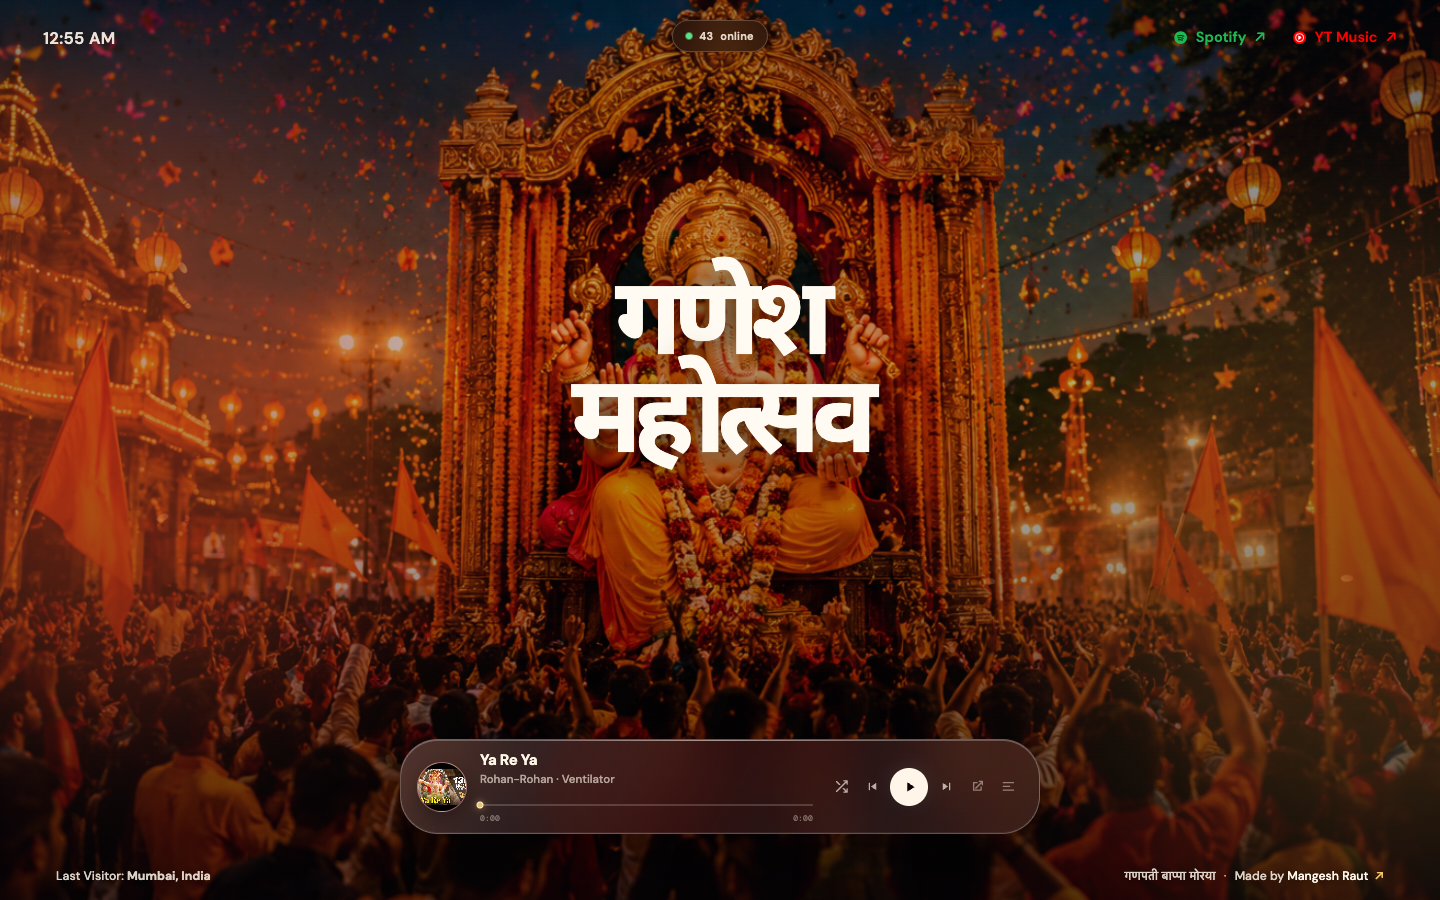
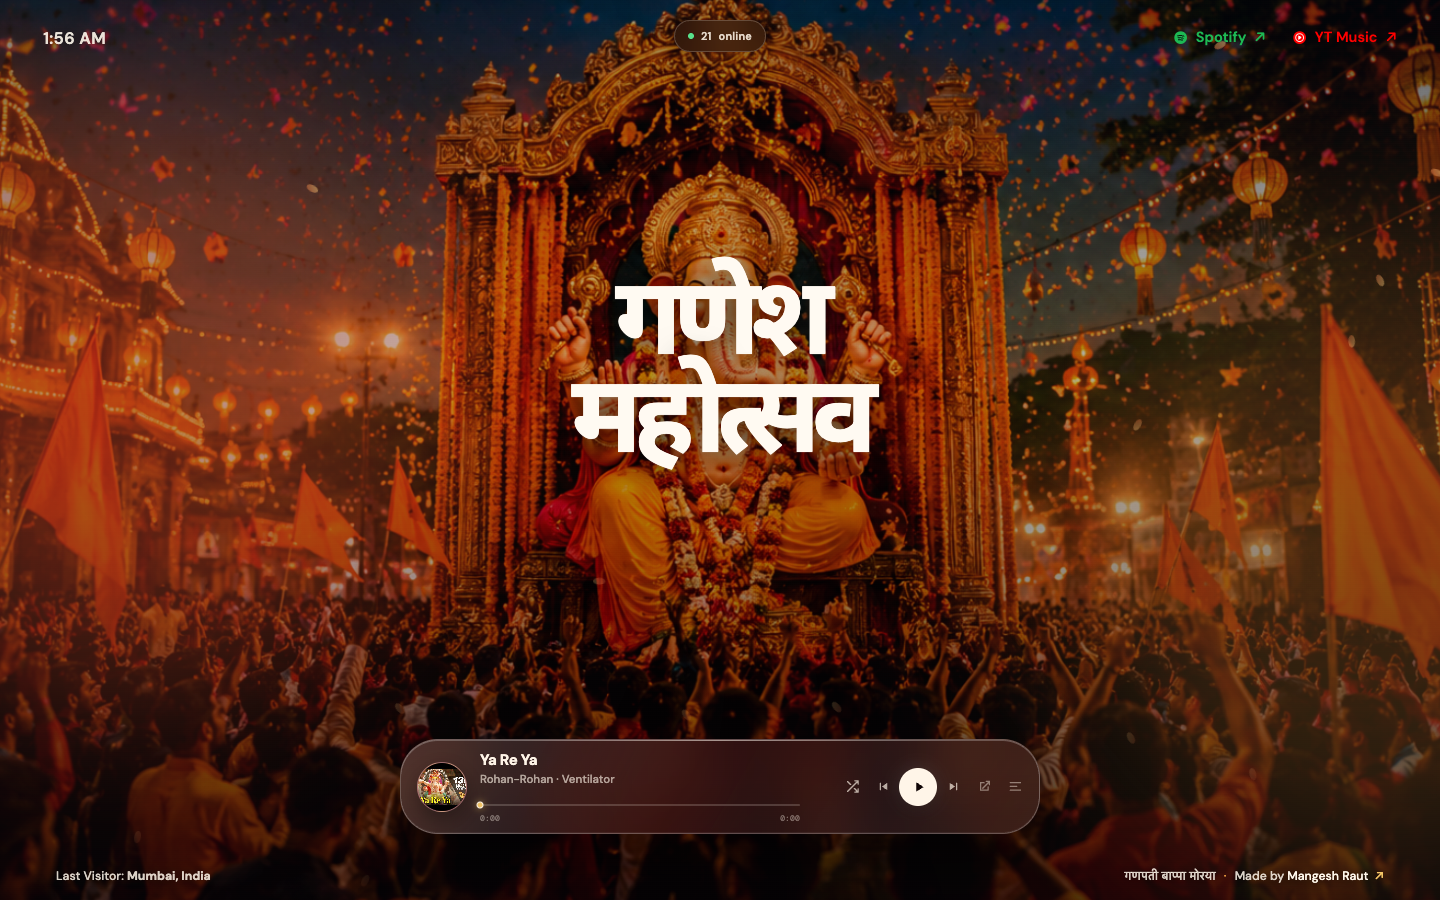
Polish player alignment and expand queue

diff --git a/index.html b/index.html
@@ -101,25 +101,29 @@
           </div>
 
           <div class="controls" aria-label="Playback controls">
-            <button type="button" class="ctrl ctrl-quiet" id="shuffle" aria-pressed="false" aria-label="Turn shuffle on" title="Shuffle">
-              <svg viewBox="0 0 24 24" aria-hidden="true"><path d="M16 3h5v5M4 20 21 3M15 15l6 6m0-5v5h-5M4 4l5 5" /></svg>
-            </button>
-            <button type="button" class="ctrl" id="prev" aria-label="Previous track" title="Previous track">
-              <svg viewBox="0 0 24 24" aria-hidden="true"><path d="M6 6h2v12H6V6zm3.5 6 8.5 6V6l-8.5 6z" /></svg>
-            </button>
-            <button type="button" class="ctrl ctrl-play" id="play" aria-label="Play" title="Play">
+            <div class="control-cluster control-cluster-start">
+              <button type="button" class="ctrl ctrl-quiet" id="shuffle" aria-pressed="false" aria-label="Turn shuffle on" title="Shuffle">
+                <svg viewBox="0 0 24 24" aria-hidden="true"><path d="M16 3h5v5M4 20 21 3M15 15l6 6m0-5v5h-5M4 4l5 5" /></svg>
+              </button>
+              <button type="button" class="ctrl" id="prev" aria-label="Previous track" title="Previous track">
+                <svg viewBox="0 0 24 24" aria-hidden="true"><path d="M6 6h2v12H6V6zm3.5 6 8.5 6V6l-8.5 6z" /></svg>
+              </button>
+            </div>
+            <button type="button" class="ctrl ctrl-play" id="play" aria-busy="false" aria-label="Play" title="Play">
               <svg class="icon-play" viewBox="0 0 24 24" aria-hidden="true"><path d="M8 5v14l11-7L8 5z" /></svg>
               <svg class="icon-pause" viewBox="0 0 24 24" aria-hidden="true"><path d="M6 5h4v14H6V5zm8 0h4v14h-4V5z" /></svg>
             </button>
-            <button type="button" class="ctrl" id="next" aria-label="Next track" title="Next track">
-              <svg viewBox="0 0 24 24" aria-hidden="true"><path d="M16 6h2v12h-2V6zM6 18l8.5-6L6 6v12z" /></svg>
-            </button>
-            <a class="ctrl ctrl-link" id="openYt" href="https://www.youtube.com/" target="_blank" rel="noopener noreferrer" aria-label="Open current song on YouTube" title="Open current song on YouTube">
-              <svg viewBox="0 0 24 24" aria-hidden="true"><path d="M14 3v2h3.59l-9.83 9.83 1.41 1.41L19 6.41V10h2V3h-7zM5 5v14h14v-7h-2v5H7V7h5V5H5z" /></svg>
-            </a>
-            <button type="button" class="ctrl ctrl-link" id="queueBtn" aria-expanded="false" aria-controls="queue" aria-label="Show playlist" title="Show playlist">
-              <svg viewBox="0 0 24 24" aria-hidden="true"><path d="M3 5h18v2H3V5zm0 6h12v2H3v-2zm0 6h18v2H3v-2z" /></svg>
-            </button>
+            <div class="control-cluster control-cluster-end">
+              <button type="button" class="ctrl" id="next" aria-label="Next track" title="Next track">
+                <svg viewBox="0 0 24 24" aria-hidden="true"><path d="M16 6h2v12h-2V6zM6 18l8.5-6L6 6v12z" /></svg>
+              </button>
+              <a class="ctrl ctrl-link" id="openYt" href="https://www.youtube.com/" target="_blank" rel="noopener noreferrer" aria-label="Open current song on YouTube" title="Open current song on YouTube">
+                <svg viewBox="0 0 24 24" aria-hidden="true"><path d="M14 3v2h3.59l-9.83 9.83 1.41 1.41L19 6.41V10h2V3h-7zM5 5v14h14v-7h-2v5H7V7h5V5H5z" /></svg>
+              </a>
+              <button type="button" class="ctrl ctrl-link" id="queueBtn" aria-expanded="false" aria-controls="queue" aria-label="Show playlist" title="Show playlist">
+                <svg viewBox="0 0 24 24" aria-hidden="true"><path d="M3 5h18v2H3V5zm0 6h12v2H3v-2zm0 6h18v2H3v-2z" /></svg>
+              </button>
+            </div>
           </div>
         </div>
       </div>

diff --git a/styles.css b/styles.css
@@ -671,10 +671,26 @@ body.is-playing .equalizer i:nth-child(3) { animation-delay: -560ms; }
 }
 
 .controls {
+  display: grid;
+  align-items: center;
+  grid-template-columns: minmax(0, 1fr) auto minmax(0, 1fr);
+  justify-content: normal;
+  gap: 0;
+  width: 210px;
+}
+
+.control-cluster {
   display: flex;
   align-items: center;
-  justify-content: end;
-  gap: 3px;
+  gap: 1px;
+}
+
+.control-cluster-start {
+  justify-content: flex-end;
+}
+
+.control-cluster-end {
+  justify-content: flex-start;
 }
 
 .ctrl {
@@ -682,6 +698,8 @@ body.is-playing .equalizer i:nth-child(3) { animation-delay: -560ms; }
   width: 32px;
   height: 32px;
   place-items: center;
+  flex: 0 0 auto;
+  line-height: 0;
   border-radius: 50%;
   background: transparent;
   color: rgba(255, 245, 232, 0.68);
@@ -690,6 +708,7 @@ body.is-playing .equalizer i:nth-child(3) { animation-delay: -560ms; }
 }
 
 .ctrl svg {
+  display: block;
   width: 15px;
   height: 15px;
   fill: currentColor;
@@ -717,7 +736,8 @@ body.is-playing .equalizer i:nth-child(3) { animation-delay: -560ms; }
 .ctrl-play {
   width: 40px;
   height: 40px;
-  margin: 0 2px;
+  position: relative;
+  margin: 0;
   color: var(--ink);
   background: var(--cream);
   box-shadow: 0 5px 16px rgba(0, 0, 0, 0.28), 0 0 16px rgba(255, 245, 232, 0.13);
@@ -749,6 +769,29 @@ body.is-playing .equalizer i:nth-child(3) { animation-delay: -560ms; }
   color: var(--ink);
   background: #fff;
   transform: scale(1.06);
+}
+
+.ctrl-play[data-buffering="true"] {
+  cursor: progress;
+}
+
+.ctrl-play[data-buffering="true"] svg {
+  opacity: 0;
+}
+
+.ctrl-play[data-buffering="true"]::before {
+  position: absolute;
+  width: 15px;
+  height: 15px;
+  border: 2px solid rgba(16, 6, 7, 0.2);
+  border-top-color: var(--saffron);
+  border-radius: 50%;
+  animation: player-spin 800ms linear infinite;
+  content: "";
+}
+
+@keyframes player-spin {
+  to { transform: rotate(360deg); }
 }
 
 .player-footer {
@@ -1099,10 +1142,27 @@ body.is-playing .equalizer i:nth-child(3) { animation-delay: -560ms; }
   }
 
   .controls {
+    display: grid;
     grid-column: 1 / -1;
-    justify-content: center;
-    gap: 6px;
+    grid-template-columns: minmax(0, 1fr) auto minmax(0, 1fr);
+    justify-content: normal;
+    width: 100%;
+    gap: 10px;
     padding-top: 1px;
+  }
+
+  .control-cluster {
+    display: flex;
+    align-items: center;
+    gap: 4px;
+  }
+
+  .control-cluster-start {
+    justify-content: flex-end;
+  }
+
+  .control-cluster-end {
+    justify-content: flex-start;
   }
 
   .ctrl {

diff --git a/app.js b/app.js
@@ -49,6 +49,7 @@
   let progressTimer = null;
   let dragging = false;
   let toastTimer = null;
+  let skipTimer = null;
   let userStarted = false;
 
   // Skip quiet intros on some aartis a bit — still starts near beginning
@@ -127,10 +128,21 @@
 
   function setPlayingUI(isPlaying) {
     playing = isPlaying;
+    setBufferingUI(false);
     el.play.classList.toggle("is-playing", isPlaying);
     el.play.setAttribute("aria-label", isPlaying ? "Pause" : "Play");
     el.play.title = isPlaying ? "Pause" : "Play";
     document.body.classList.toggle("is-playing", isPlaying);
+  }
+
+  function setBufferingUI(isBuffering) {
+    document.body.classList.toggle("is-buffering", isBuffering);
+    el.play.setAttribute("aria-busy", String(isBuffering));
+    if (isBuffering) {
+      el.play.dataset.buffering = "true";
+    } else {
+      delete el.play.dataset.buffering;
+    }
   }
 
   function setProgress(current, duration) {
@@ -285,6 +297,7 @@
         playNext(true);
         break;
       case S.BUFFERING:
+        setBufferingUI(true);
         break;
       case S.CUED:
         setPlayingUI(false);
@@ -297,13 +310,23 @@
   function onPlayerError(event) {
     // 2=invalid id, 5=html5, 100=not found, 101/150=embed not allowed
     console.warn("YouTube error", event.data);
+    setPlayingUI(false);
+    if (skipTimer) return;
     showToast("This track can’t play here — skipping…");
-    setTimeout(() => playNext(true), 700);
+    skipTimer = setTimeout(() => {
+      skipTimer = null;
+      playNext(true);
+    }, 700);
   }
 
   function loadAndPlay(autoplay) {
     const song = currentSong();
     if (!song || !player) return;
+    if (skipTimer) {
+      clearTimeout(skipTimer);
+      skipTimer = null;
+    }
+    setBufferingUI(false);
     updateMeta(song);
     setProgress(0, 0);
 

diff --git a/songs.js b/songs.js
@@ -1,5 +1,5 @@
 /**
- * 25 Ganesh Chaturthi bangers, dhol-tasha cuts, and aarti staples.
+ * 30 Ganesh Chaturthi bangers, dhol-tasha cuts, and aarti staples.
  * Playback is always via YouTube (video IDs only — no audio files hosted here).
  * The order is intentional: Ya Re Ya opens the mandap, then the queue moves
  * through procession energy, Marathi classics, aartis, and mantras.
@@ -179,5 +179,40 @@ window.GANESH_SONGS = [
     title: "Shree Ganeshay Dheemahi",
     artist: "Ajay-Atul · Shankar Mahadevan",
     album: "Vishwa Vinayak",
+  },
+  {
+    id: "HE5SE4farrQ",
+    youtubeId: "HE5SE4farrQ",
+    title: "Maza Bappa Aala",
+    artist: "Zee Music Marathi",
+    album: "Ganpati Aagman",
+  },
+  {
+    id: "cGcw33hVrS4",
+    youtubeId: "cGcw33hVrS4",
+    title: "Bappa",
+    artist: "Vishal & Shekhar · Vishal Dadlani",
+    album: "Banjo",
+  },
+  {
+    id: "KJF8t-BWVRM",
+    youtubeId: "KJF8t-BWVRM",
+    title: "Gajanana",
+    artist: "Sukhwinder Singh",
+    album: "Bajirao Mastani",
+  },
+  {
+    id: "VJPLXBvV4qQ",
+    youtubeId: "VJPLXBvV4qQ",
+    title: "Ganapati Tu Sarvashreshth",
+    artist: "Adesh Karwarkar",
+    album: "Marathi Ganpati Song",
+  },
+  {
+    id: "_jiTr71_X8c",
+    youtubeId: "_jiTr71_X8c",
+    title: "Ganpati Mantra",
+    artist: "Shankar Mahadevan",
+    album: "Ganesh Pancharatna Stotra",
   },
 ];

diff --git a/README.md b/README.md
@@ -47,7 +47,7 @@ The name keeps the heart of the festival in the first word and gives the project
 - Full-viewport Ganeshotsav artwork with dark readability overlays and restrained festive motion.
 - A focused Marathi hero title: `गणेश महोत्सव`.
 - A liquid-glass music card with cover art, progress scrubbing, play/pause, previous/next, shuffle, YouTube, and playlist controls.
-- A hidden-by-default “mandap queue” with 25 Ganesh festival tracks.
+- A hidden-by-default “mandap queue” with 30 Ganesh festival tracks.
 - `Ya Re Ya` as the intentional opening track; shuffle is always a user action.
 - Responsive layouts tested at desktop and narrow mobile widths, including 320 px.
 - Spotify and YouTube Music entry points for continuing the listening session on the original platforms.
@@ -76,6 +76,10 @@ The generic visual language was replaced with a Ganeshotsav palette, mandap ligh
 
 The release locked `Ya Re Ya` as the opener, expanded the queue to 25 curated festival songs, corrected the Spotify and YouTube Music brand treatments, added the Mangesh Raut GitHub credit, and published the site on Vercel. The repository was then rebranded as `ganeshai` with focused GitHub topics, a release README, and visual home previews.
 
+### 10 August 2026 — Alignment and thirty-track listening run
+
+The player control rail was rebuilt around a three-column primary-action grid so the play button shares a true centerline on desktop and mobile. The queue now continues with five additional non-duplicate singles—`Maza Bappa Aala`, `Bappa`, `Gajanana`, `Ganapati Tu Sarvashreshth`, and `Ganpati Mantra`—for a 30-track run. Buffering now has an explicit loading state, while repeated YouTube errors are guarded so a single failed embed cannot skip twice.
+
 ## How it works
 
 1. `index.html` defines the semantic page shell, player controls, source links, queue disclosure, and metadata.
@@ -103,7 +107,7 @@ Opening `index.html` directly with a `file://` URL is not recommended because br
 | `index.html` | Semantic page shell, metadata, source links, player, and queue markup |
 | `styles.css` | Festival visual system, responsive rules, glass player, and accessibility states |
 | `app.js` | YouTube API integration and player interaction logic |
-| `songs.js` | 25-track Ganeshotsav queue and YouTube metadata |
+| `songs.js` | 30-track Ganeshotsav queue and YouTube metadata |
 | `ganesh background.png` | Active full-bleed Ganesh festival background |
 | `ganesh logo.png` | Ganesh logo used for the favicon and touch icon |
 | `docs/superpowers/` | Design brief and implementation history for the 2026 build |
@@ -152,7 +156,7 @@ node --check app.js
 node --check songs.js
 ```
 
-The page was also opened through a local HTTP server and checked in a real browser at 1440×900, 390×844, and 320×844. The page had no horizontal overflow, the opener was `Ya Re Ya`, and the 25-song queue opened without breaking the layout.
+The page was also opened through a local HTTP server and checked in a real browser at 1440×900, 390×844, and 320×844. The page had no horizontal overflow, the play button shared the control rail centerline, the opener was `Ya Re Ya`, and all 30 queue transitions matched their expected YouTube IDs before wrapping back to the opener.
 
 ## Design notes and credits
 

diff --git a/CHANGELOG.md b/CHANGELOG.md
@@ -2,6 +2,25 @@
 
 All notable project milestones are recorded here. Dates use the India Standard Time release context for the 2026 build.
 
+## [2026.08.10] — 30-track playback and alignment polish
+
+### Added
+
+- 5 additional non-duplicate Ganpati/Ganesha singles, expanding the listening run from 25 to 30 songs.
+- `Maza Bappa Aala`, `Bappa`, `Gajanana`, `Ganapati Tu Sarvashreshth`, and `Ganpati Mantra` from official or artist-published YouTube sources.
+
+### Improved
+
+- Centered the primary play action inside a balanced control rail on desktop and mobile.
+- Added a visible buffering state and guarded YouTube error skipping against duplicate callbacks.
+- Kept the queue order deterministic with `Ya Re Ya` as track 1 and the new songs closing the 30-track run.
+
+### Verified
+
+- All 30 YouTube IDs are unique.
+- Browser transition audit matched every expected title and video ID across 30 next-track actions, then wrapped to `Ya Re Ya`.
+- Desktop and mobile layouts remained free of horizontal overflow.
+
 ## [2026.08.10] — 25-song queue expansion
 
 ### Added

diff --git a/docs/superpowers/specs/2026-08-09-ganesh-festival-design.md b/docs/superpowers/specs/2026-08-09-ganesh-festival-design.md
@@ -21,11 +21,12 @@ The page uses the repository's original Ganesh-specific assets rather than copyi
 
 ## Interaction and accessibility
 
-- Preserve current YouTube API behavior and the curated 25-track playlist, with `Ya Re Ya` as the deterministic opening track.
+- Preserve current YouTube API behavior and the curated 30-track playlist, with `Ya Re Ya` as the deterministic opening track.
 - Preserve click/tap play, previous/next, shuffle, playlist toggle, YouTube link, cover click, seek dragging, spacebar play/pause, and left/right track navigation.
 - Keep the hidden player accessible only to the browser, not visible as a second UI.
 - Retain visible focus states, semantic labels, `aria-pressed`, `aria-expanded`, and reduced-motion behavior.
 - Keep the player usable at 320px wide and at desktop widths up to 1440px.
+- Keep the play action centered within its control rail at desktop and mobile widths.
 
 ## Acceptance checks
 

diff --git a/docs/superpowers/plans/2026-08-09-ganesh-festival.md b/docs/superpowers/plans/2026-08-09-ganesh-festival.md
@@ -94,3 +94,4 @@
 - 9 August 2026: single-screen festival shell, local artwork, compact player, queue, and responsive visual system implemented.
 - 10 August 2026: deterministic `Ya Re Ya` opener, initial 16-track queue, brand-link cleanup, browser verification, GitHub publication, and Vercel production release completed.
 - 10 August 2026: queue expanded from 16 to 25 unique Ganpati/Ganesha tracks after source verification.
+- 10 August 2026: control rail alignment was corrected, buffering/error transitions were hardened, and the queue expanded from 25 to 30 unique Ganpati/Ganesha tracks after source verification.
